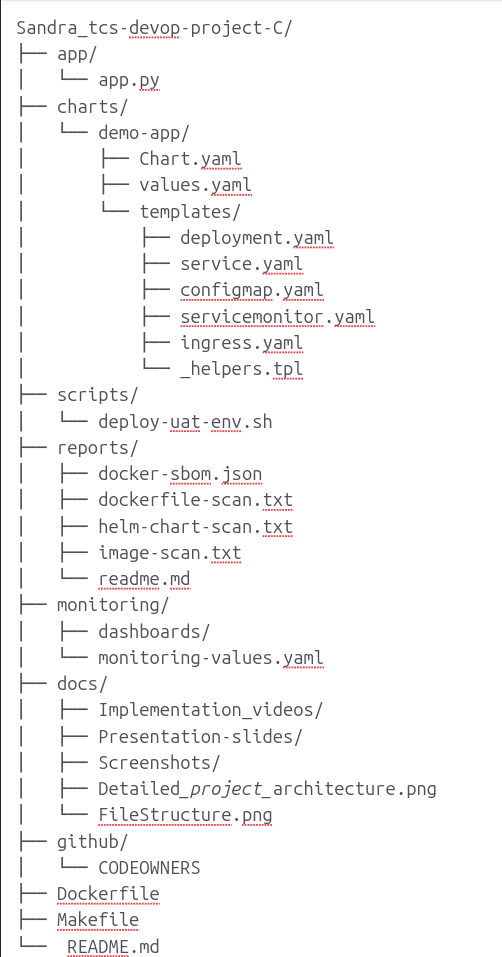
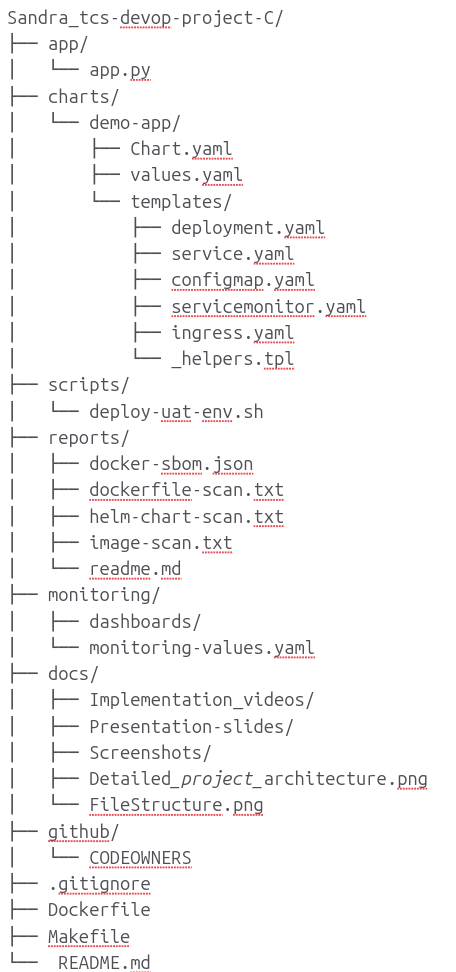
Adding Grafana secret

Changed region(s): [[0.0, 0.0, 0.9518, 1.0]]

diff --git a/README.md b/README.md
@@ -569,6 +569,7 @@ kubectl scale deployment demo-app-demo-app -n default --replicas=1
 
 
 ### 17: BUILDING GRAFANA DASHBOARD**
+
 **17a) Confirm prometheus has the metric on UI**
 Query:
 demo_app_custom_metric
@@ -592,6 +593,23 @@ Dashboards > New > Add visualization
 
 
 <img width="1833" height="940" alt="Grafana dashboard" src="https://github.com/user-attachments/assets/7b504d89-90d9-41ca-bf00-8ca9f2c9c5c4" />
+
+**17e) Creating grafana secret**
+
+Get the admin password
+```bash
+kubectl get secret monitoring-grafana -n monitoring \
+  -o jsonpath="{.data.admin-password}" | base64 --decode
+```
+
+
+Create the grafana secret
+```bash
+kubectl create secret generic grafana-admin-credentials \
+  --from-literal=admin-user=admin \
+  --from-literal=admin-password='PASSWORD-FROM-THE-PREVIOUS-COMMAND' \
+  -n monitoring
+```
 
 
 **Simulating self healing, scaling and errors**
